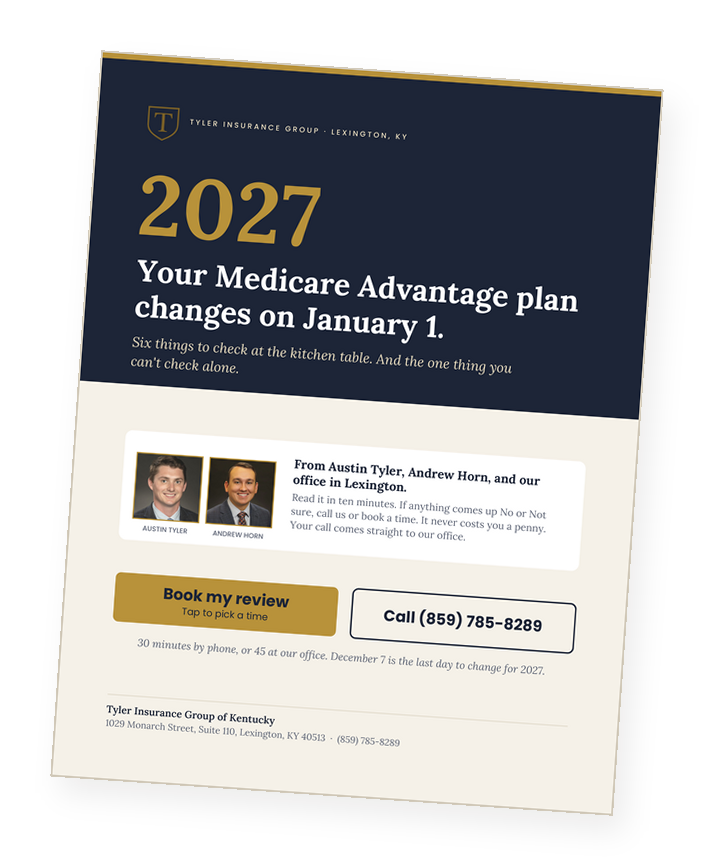
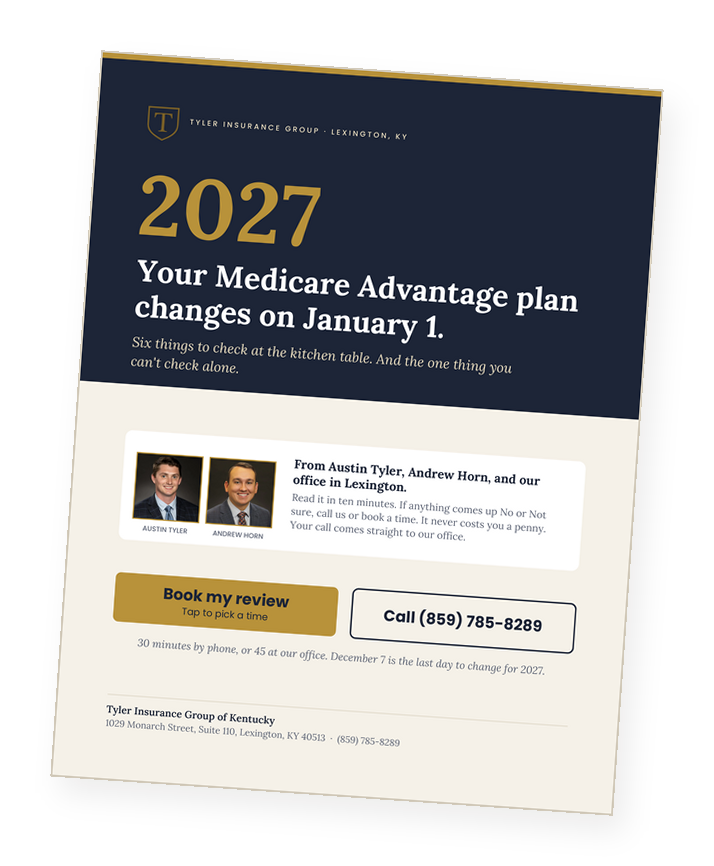
Use Austin's new headshot on the /plancheck page
Page-local photo (site-wide /assets/austin-tyler.jpg left untouched);
guide cover and OG image refreshed from the updated guide.

Claude-Session: https://claude.ai/code/session_01PcAcyYCPQkevzWPGdaFdAA

Changed region(s): [[0.1849, 0.4988, 0.3081, 0.6236]]

diff --git a/plancheck/index.html b/plancheck/index.html
@@ -160,7 +160,7 @@ a{color:var(--coral-d);text-decoration:none;}
       <a class="pcbtn solid" href="https://link.tylerinsurancegroup.com/widget/group/OuwFMmumrGHln3dKOQ0T" data-track="book">Book my review<small>Tap to pick a time</small></a>
       <p class="pcnote">30 minutes by phone, or 45 at our office on Monarch Street. It never costs you a penny.</p>
       <div class="pccard">
-        <div class="pcpics"><img src="/assets/austin-tyler.jpg" alt="Austin Tyler" width="84" height="84"><img src="/plancheck/andrew-horn.jpg" alt="Andrew Horn" width="84" height="84"></div>
+        <div class="pcpics"><img src="/plancheck/austin-tyler.jpg" alt="Austin Tyler" width="84" height="84"><img src="/plancheck/andrew-horn.jpg" alt="Andrew Horn" width="84" height="84"></div>
         <p><b>Austin Tyler and Andrew Horn</b>Tyler Insurance Group, Lexington. Your call comes straight to our office.</p>
       </div>
       <div class="pcdead">December 7<b>is the last day to change for 2027.</b></div>
